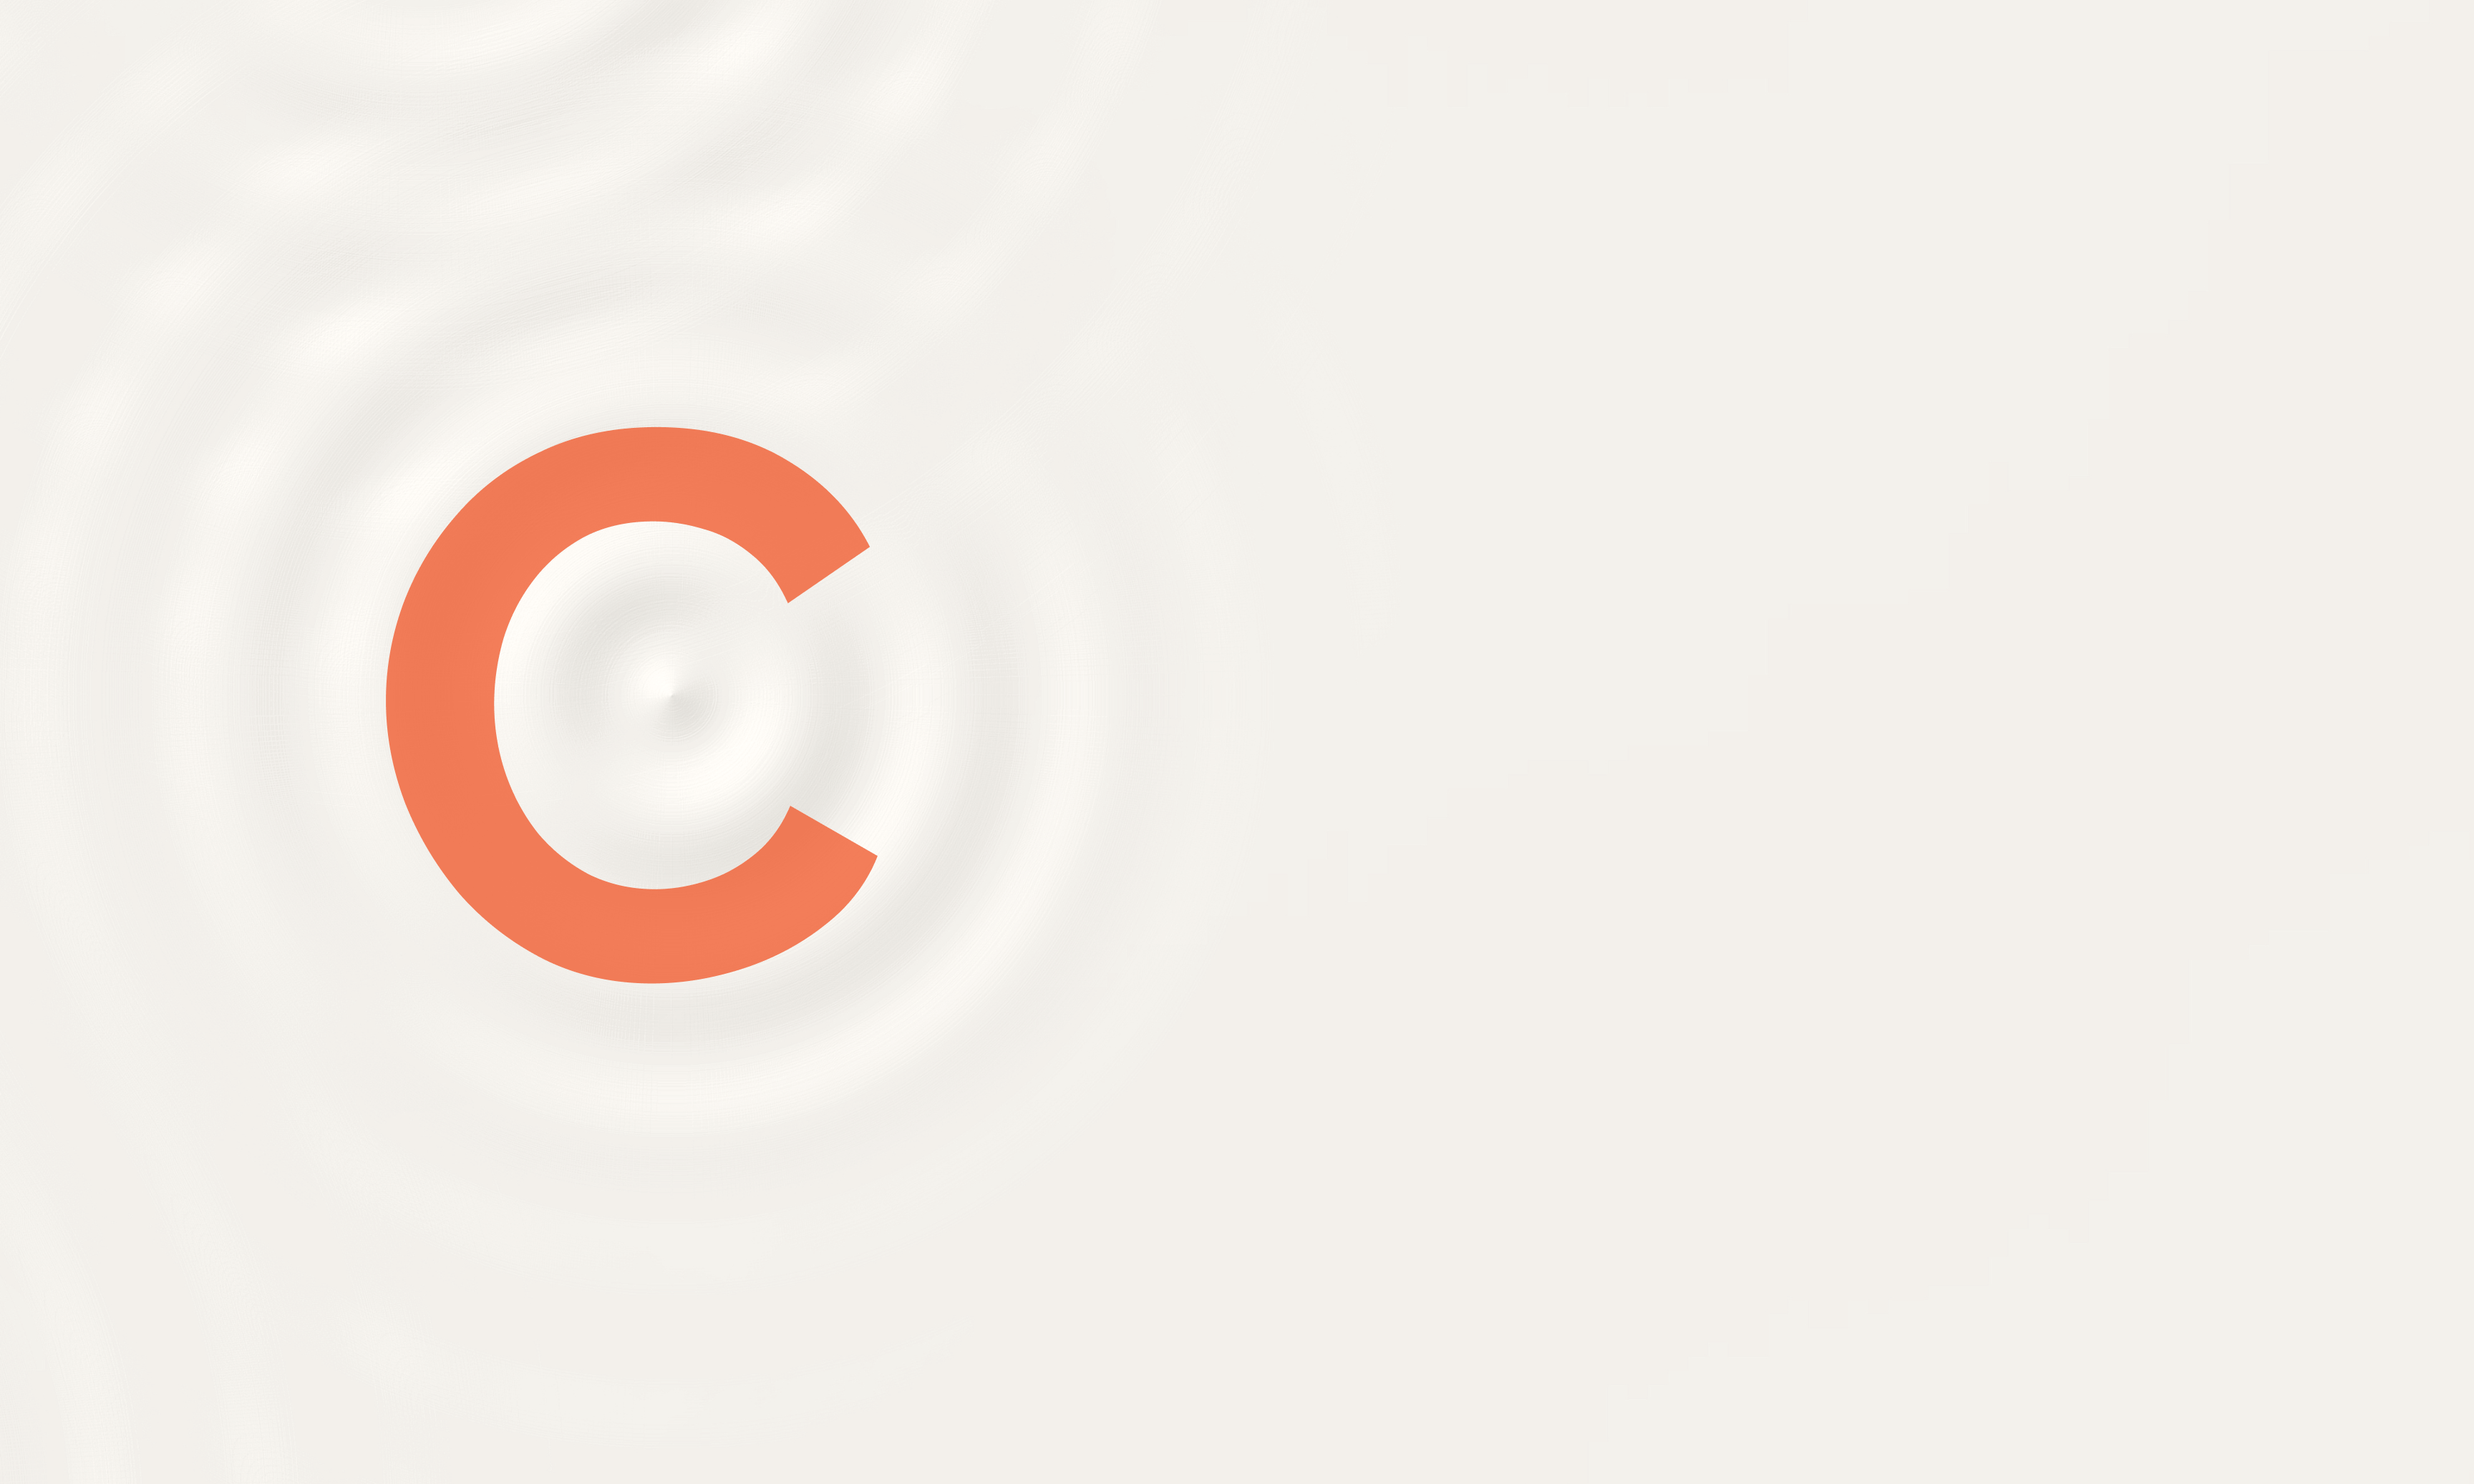
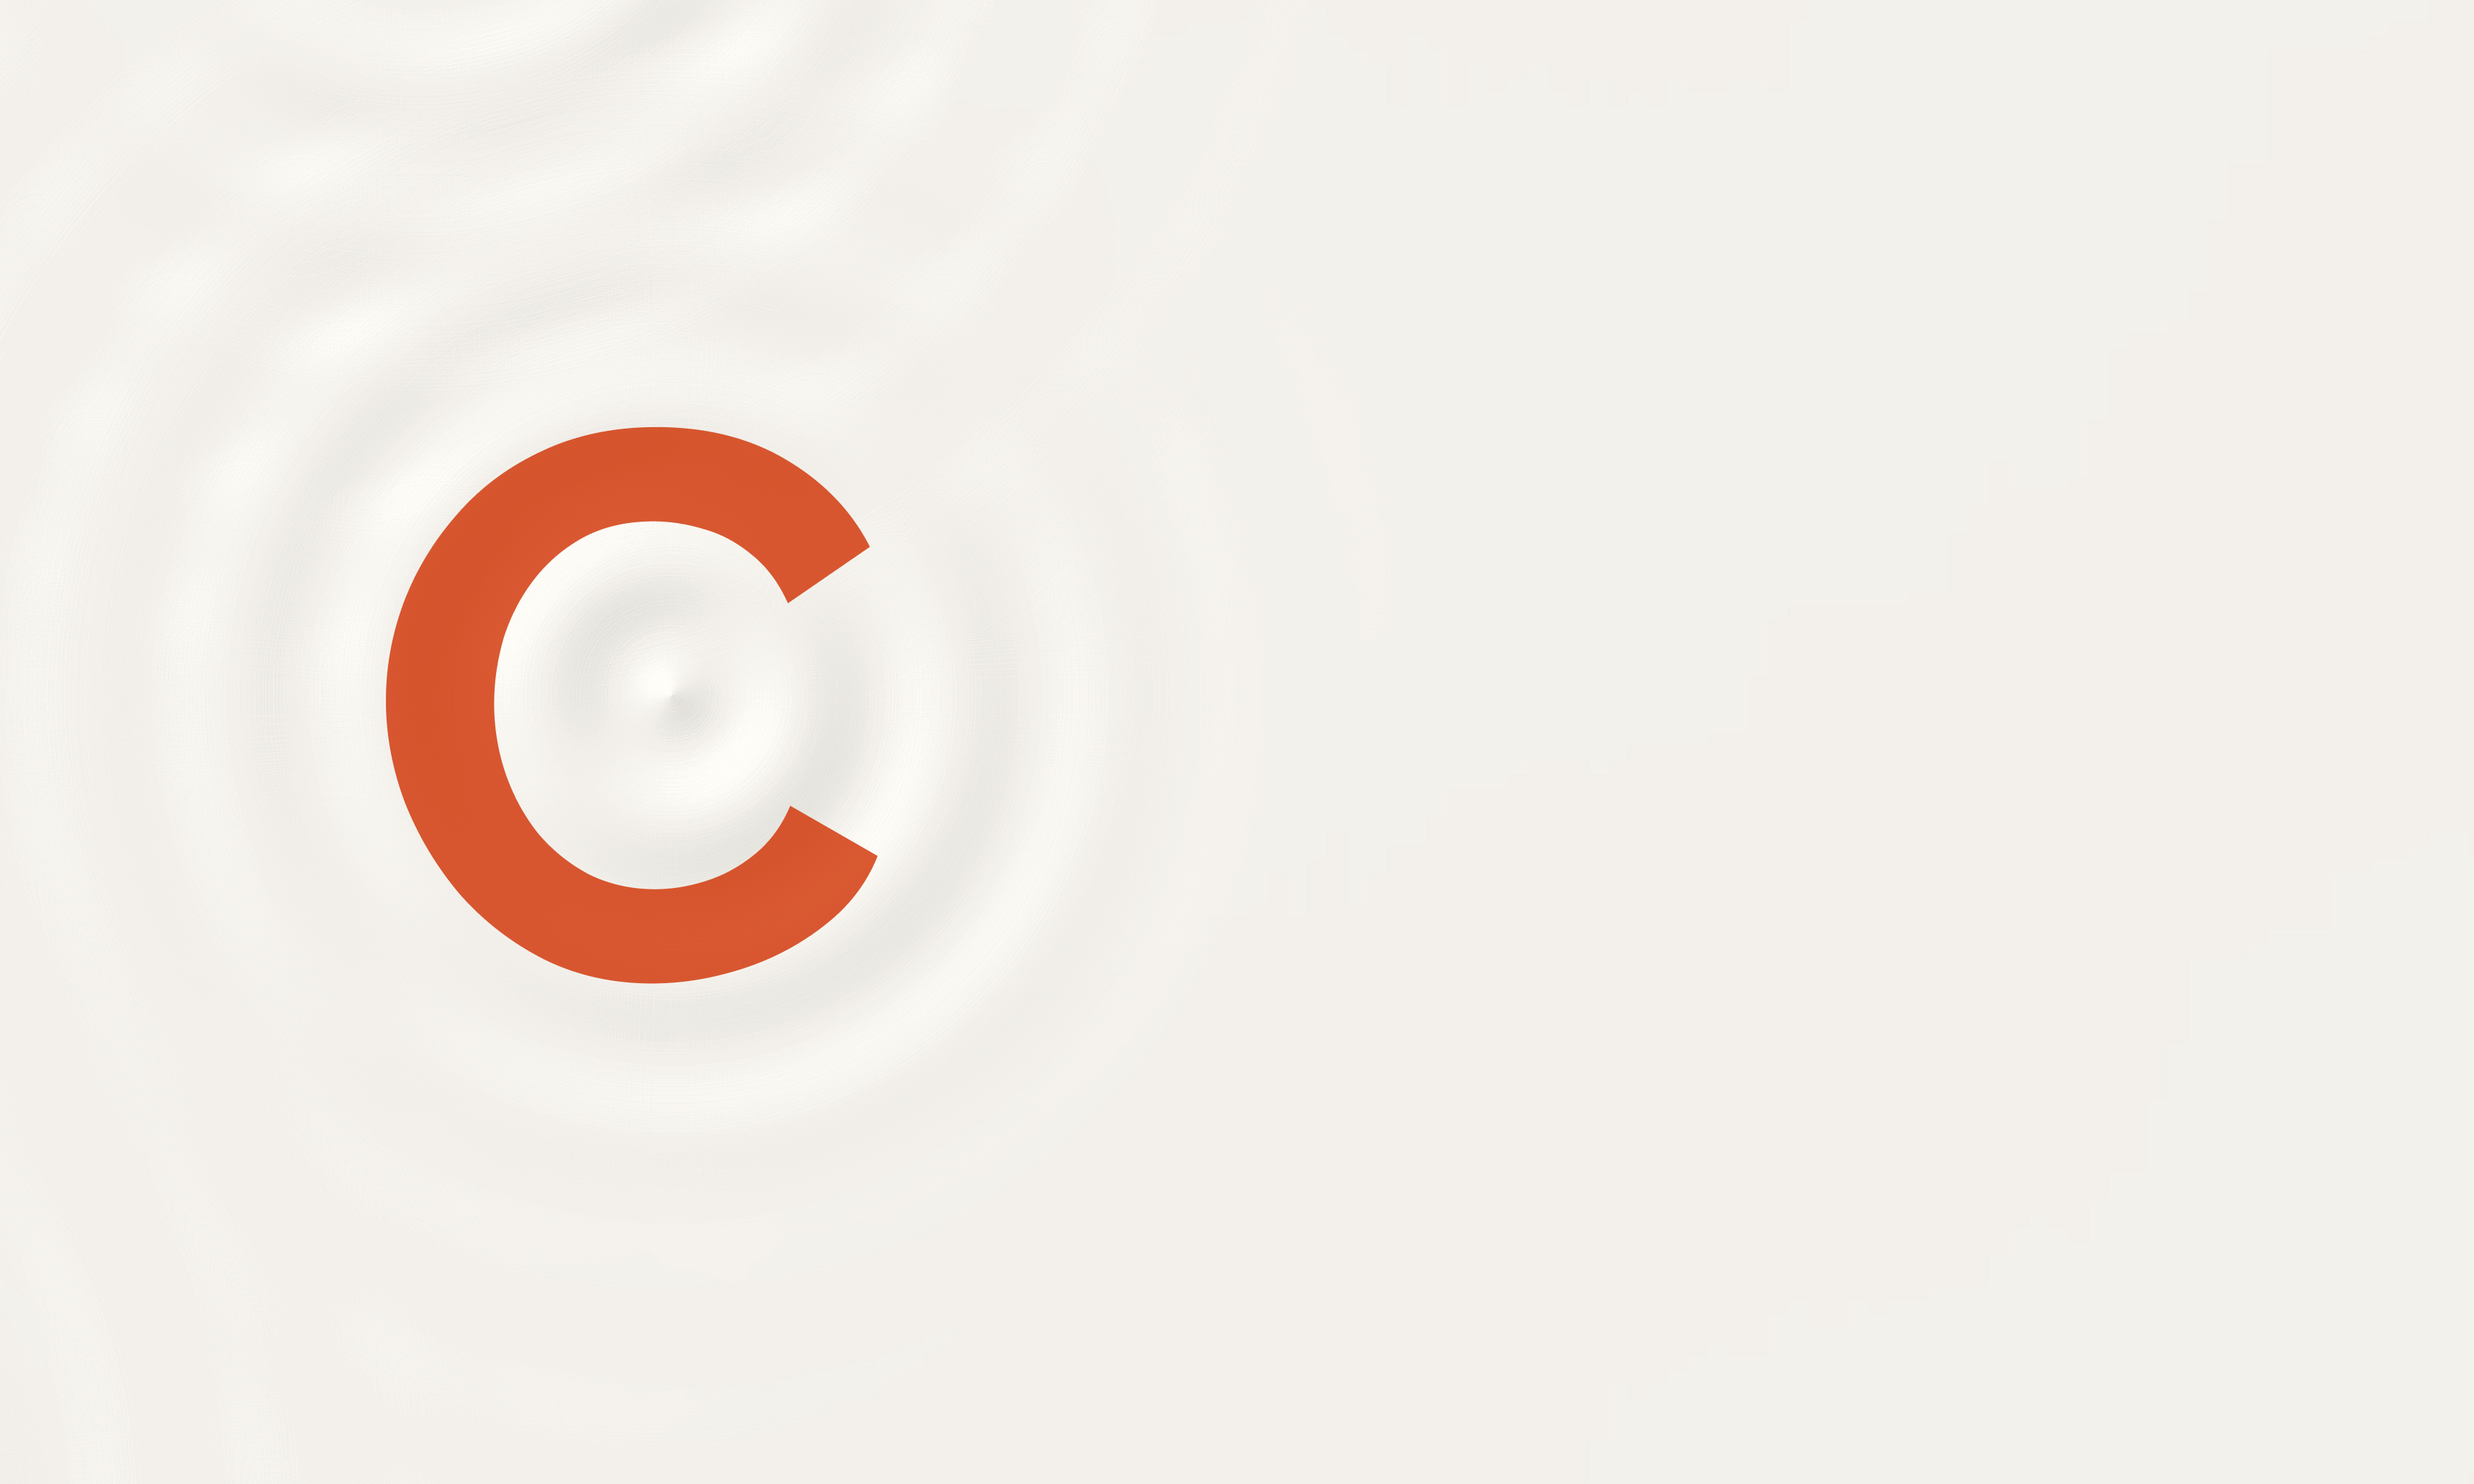
Accessibility house keeping

Changed region(s): [[0.1562, 0.2777, 0.375, 0.6789]]

diff --git a/src/components/more-work/MoreWork.jsx b/src/components/more-work/MoreWork.jsx
@@ -20,6 +20,7 @@ const MoreWork = () => {
               <img
                 src="\images\more-work\mailkeeper-web-mockup.jpg"
                 srcSet="\images\more-work\mailkeeper-web-mockup@2x.jpg"
+                alt="Mailkeeper website mockup"
               />
             </div>
           </div>
@@ -29,6 +30,7 @@ const MoreWork = () => {
               text="While I was working with the team at Qualarc the company acquired the Mailkeeper line. Mailkeeper had a limited branding and a very outdated website. I was tasked with updating the old site while maintaining the original branding. I used Adobe XD for the design and created a simple brochure style site using HTML/css, javaScript and Bootstrap."
               img="\images\more-work\mailkeeper-web-full.jpg"
               img2x="\images\more-work\mailkeeper-web-full@2x.jpg"
+              alt="Mailkeeper website full mockup"
               onClick={() => setViewModal(0)}
             />
           )}
@@ -37,6 +39,7 @@ const MoreWork = () => {
               <img
                 src="\images\more-work\trainer-road-calculator.jpg"
                 srcSet="\images\more-work\trainer-road-calculator@2x.jpg"
+                alt="TrainerRoad calculator mockup"
               />
             </div>
           </div>
@@ -46,33 +49,16 @@ const MoreWork = () => {
               text="Working on the TrainerRoad marketing team, we were trying to create more interaction on the marketing site. I came up with the idea for a calculator that athletes could enter their cycling performance information and compare it to other athletes in the TrainerRoad system. The design was created with style components in Figma, and implemented in React.js"
               img="\images\more-work\watts-kg-calculator.jpg"
               img2x="\images\more-work\watts-kg-calculator@2x.jpg 2x"
+              alt="Watts per kilogram calculator mockup"
               onClick={() => setViewModal(0)}
             />
           )}
-          <div className="col-md-4 mb-3" onClick={() => setViewModal(3)}>
-            <div className={styles.moreLink}>
-              <img
-                src="\images\more-work\prestige-plaques-Mockup.jpg"
-                srcSet="\images\more-work\prestige-plaques-Mockup@2x.jpg 2x"
-              />
-            </div>
-          </div>
-          {viewModal == 3 && (
-            <Modal
-              title="Prestige Plaques Logo & Web Design"
-              text="This project included logo and web a design and implementation of a website where users can select from a number of product options and make a purchase. I used Adobe xd for the design portion and created a custom e-commerce WordPress template using sass and php."
-              img="\images\more-work\prestige-plaques-web-full.jpg"
-              img2x="\images\more-work\prestige-plaques-web-full@2x.jpg"
-              onClick={() => setViewModal(0)}
-            />
-          )}
-        </div>
-        <div className="row py-md-3">
           <div className="col-md-4 mb-3" onClick={() => setViewModal(4)}>
             <div className={styles.moreLink}>
               <img
                 src="\images\more-work\fight-card-thumb.jpg"
                 srcSet="\images\more-work\fight-card-thumb@2x.jpg"
+                alt="Fight card digital advertising design"
               />
             </div>
           </div>
@@ -82,66 +68,18 @@ const MoreWork = () => {
               text="Social media for events and event based companies can be a great tool to generate engagement. This is a fun project that I worked on to promote a Jiu Jitsu tournament. I did the photography work and PhotoShop creation of this Facebook banner. "
               img="\images\more-work\fight-card.jpg"
               img2x="\images\more-work\fight-card@2x.jpg"
-              onClick={() => setViewModal(0)}
-            />
-          )}
-          <div className="col-md-4 mb-3" onClick={() => setViewModal(5)}>
-            <div className={styles.moreLink}>
-              <img
-                src="\images\more-work\Hang-Ten-Mock-up.jpg"
-                srcSet="\images\more-work\Hang-Ten-Mock-up@2x.jpg 2x"
-              />
-            </div>
-          </div>
-          {viewModal == 5 && (
-            <Modal
-              title="Hang Ten Website Revamp"
-              text="Hang Ten is a seafood restaurant in the Bay Area, they had a terribly out-dated website that was not connecting with customers. I worked on this project a number of years ago, so the design was done in PhotoShop and the implementation was done in vanilla HTML/css with a sprinkling of javaScript. The new site now includes location, the complete menu and catering information which were not included on the old site."
-              img2x="\images\more-work\hang-ten-menue@2x.jpg"
-              onClick={() => setViewModal(0)}
-            />
-          )}
-          <div className="col-md-4 mb-3" onClick={() => setViewModal(6)}>
-            <div className={styles.moreLink}>
-              <img
-                src="\images\more-work\cha-light-ad-thumb.jpg"
-                srcSet="\images\more-work\cha-light-ad-thumb@2x.jpg 2x"
-              />
-            </div>
-          </div>
-          {viewModal == 6 && (
-            <Modal
-              title="CHA Facebook Marketing"
-              text="Custom Home Accessories had recently expanded their product offering to include outdoor lighting. It was important to let potential customers know about the new lighting offerings. This banner was part of a larger marketing push to engage with clients that might be interested in outdoor lighting."
-              img="\images\more-work\cha-light-ad.jpg"
-              img2x="\images\more-work\cha-light-ad@2x.jpg"
+              alt="Social media banner design fight card"
               onClick={() => setViewModal(0)}
             />
           )}
         </div>
         <div className="row py-md-3">
-          <div className="col-md-4 mb-3" onClick={() => setViewModal(7)}>
-            <div className={styles.moreLink}>
-              <img
-                src="\images\more-work\cha-email-mockup-thumb.jpg"
-                srcSet="\images\more-work\cha-email-mockup.jpg 2x"
-              />
-            </div>
-          </div>
-          {viewModal == 7 && (
-            <Modal
-              title="Email Marketing"
-              text="While working for Custom Home Accessories email marketing was an important part of of customer engagement. I was tasked with not only all email design, but also email creation and maintaining our MailChimp account. During the 4 years I was with the company I was able to move the creation from vanilla HTML to Foundation for email, which made the process of email creation much easier and faster."
-              img="\images\more-work\Branded-Plaques-Email-Mockup-2.jpg"
-              img2x="\images\more-work\Branded-Plaques-Email-Mockup-2@2x.jpg"
-              onClick={() => setViewModal(0)}
-            />
-          )}
           <div className="col-md-4  mb-3" onClick={() => setViewModal(8)}>
             <div className={styles.moreLink}>
               <img
                 src="\images\more-work\winfield-banner-thumb.png"
                 srcSet="\images\more-work\winfield-banner.png 2x"
+                alt="Web banner design mockup"
               />
             </div>
           </div>
@@ -151,6 +89,45 @@ const MoreWork = () => {
               text="While I was working with the team at Qualarc the company was constantly expanding their product offering. This was my duty to not only photograph the new products, but also find ways to effectively market the new products. This was a banner I created for a very effective Facebook campaign to introduce the Winfield line of mailboxes."
               img="\images\more-work\winfield-banner.png"
               img2x="\images\more-work\winfield-banner@2x.png"
+              alt="Qualarc banner ad design"
+              onClick={() => setViewModal(0)}
+            />
+          )}
+          <div className="col-md-4 mb-3" onClick={() => setViewModal(7)}>
+            <div className={styles.moreLink}>
+              <img
+                src="\images\more-work\cha-email-mockup-thumb.jpg"
+                srcSet="\images\more-work\cha-email-mockup.jpg 2x"
+                alt="Email advertising design mockup"
+              />
+            </div>
+          </div>
+          {viewModal == 7 && (
+            <Modal
+              title="Email Marketing"
+              text="While working for Custom Home Accessories email marketing was an important part of of customer engagement. I was tasked with not only all email design, but also email creation and maintaining our MailChimp account. During the 4 years I was with the company I was able to move the creation from vanilla HTML to Foundation for email, which made the process of email creation much easier and faster."
+              img="\images\more-work\Branded-Plaques-Email-Mockup-2.jpg"
+              img2x="\images\more-work\Branded-Plaques-Email-Mockup-2@2x.jpg"
+              alt="Email marketing design"
+              onClick={() => setViewModal(0)}
+            />
+          )}
+          <div className="col-md-4 mb-3" onClick={() => setViewModal(6)}>
+            <div className={styles.moreLink}>
+              <img
+                src="\images\more-work\cha-light-ad-thumb.jpg"
+                srcSet="\images\more-work\cha-light-ad-thumb@2x.jpg 2x"
+                alt="Marketing assets design mockup"
+              />
+            </div>
+          </div>
+          {viewModal == 6 && (
+            <Modal
+              title="CHA Facebook Marketing"
+              text="Custom Home Accessories had recently expanded their product offering to include outdoor lighting. It was important to let potential customers know about the new lighting offerings. This banner was part of a larger marketing push to engage with clients that might be interested in outdoor lighting."
+              img="\images\more-work\cha-light-ad.jpg"
+              img2x="\images\more-work\cha-light-ad@2x.jpg"
+              alt="Custom Home Accessories social media marketing example"
               onClick={() => setViewModal(0)}
             />
           )}

diff --git a/src/components/contact/Contact.jsx b/src/components/contact/Contact.jsx
@@ -28,8 +28,8 @@ const Contact = () => {
               placeholder="Your Email"
               required
             />
-            <label htmlFor="">Add a Message</label>
-            <textarea name="entry.314039078" rows={5} required />
+            <label htmlFor="message">Add a Message</label>
+            <textarea id="message" name="entry.314039078" rows={5} required />
             <SubmitButton>Submit</SubmitButton>
           </form>
         </div>

diff --git a/src/components/modal/Modal.jsx b/src/components/modal/Modal.jsx
@@ -15,7 +15,7 @@ export const Modal = (props) => {
             {/* <a href="">Link to some where?</a> */}
           </div>
           <div className="col-md-8">
-            <img src={props.img} srcSet={`${props.img2x} 2x`} alt="alt text" />
+            <img src={props.img} srcSet={`${props.img2x} 2x`} alt={props.alt} />
           </div>
         </div>
       </div>

diff --git a/src/components/footer/Footer.jsx b/src/components/footer/Footer.jsx
@@ -33,7 +33,9 @@ const Footer = () => {
           </div>
         </div>
         <div>
-          <p className="mb-0 text-center">&copy; Nicholas Carlson {year}</p>
+          <p className={`mb-0 text-center ${styles.copyright}`}>
+            &copy; Nicholas Carlson {year}
+          </p>
         </div>
       </div>
     </div>

diff --git a/src/components/navbar/Navbar.jsx b/src/components/navbar/Navbar.jsx
@@ -11,6 +11,7 @@ const Navbar = (props) => {
             <img
               src="/images\carlson-design-wordmark.png"
               srcSet="\images\carlson-design-wordmark.png 1x, \images\carlson-design-wordmark@2x.png 2x"
+              alt="site logo"
             />
           </NavLink>
         </div>

diff --git a/src/styles/_variables.scss b/src/styles/_variables.scss
@@ -1,7 +1,7 @@
 // Colors
-$high-light: #f05e32;
+$high-light: #d03000;
 $background: #f3f1ec;
-$section-background: #d9d9d9;
+$section-background: #f3f1ec;
 $text-color: #404040;
 
 // Typography

diff --git a/src/components/footer/Footer.module.scss b/src/components/footer/Footer.module.scss
@@ -22,3 +22,7 @@
     }
   }
 }
+
+.copyright {
+  font-size: 0.8rem;
+}
